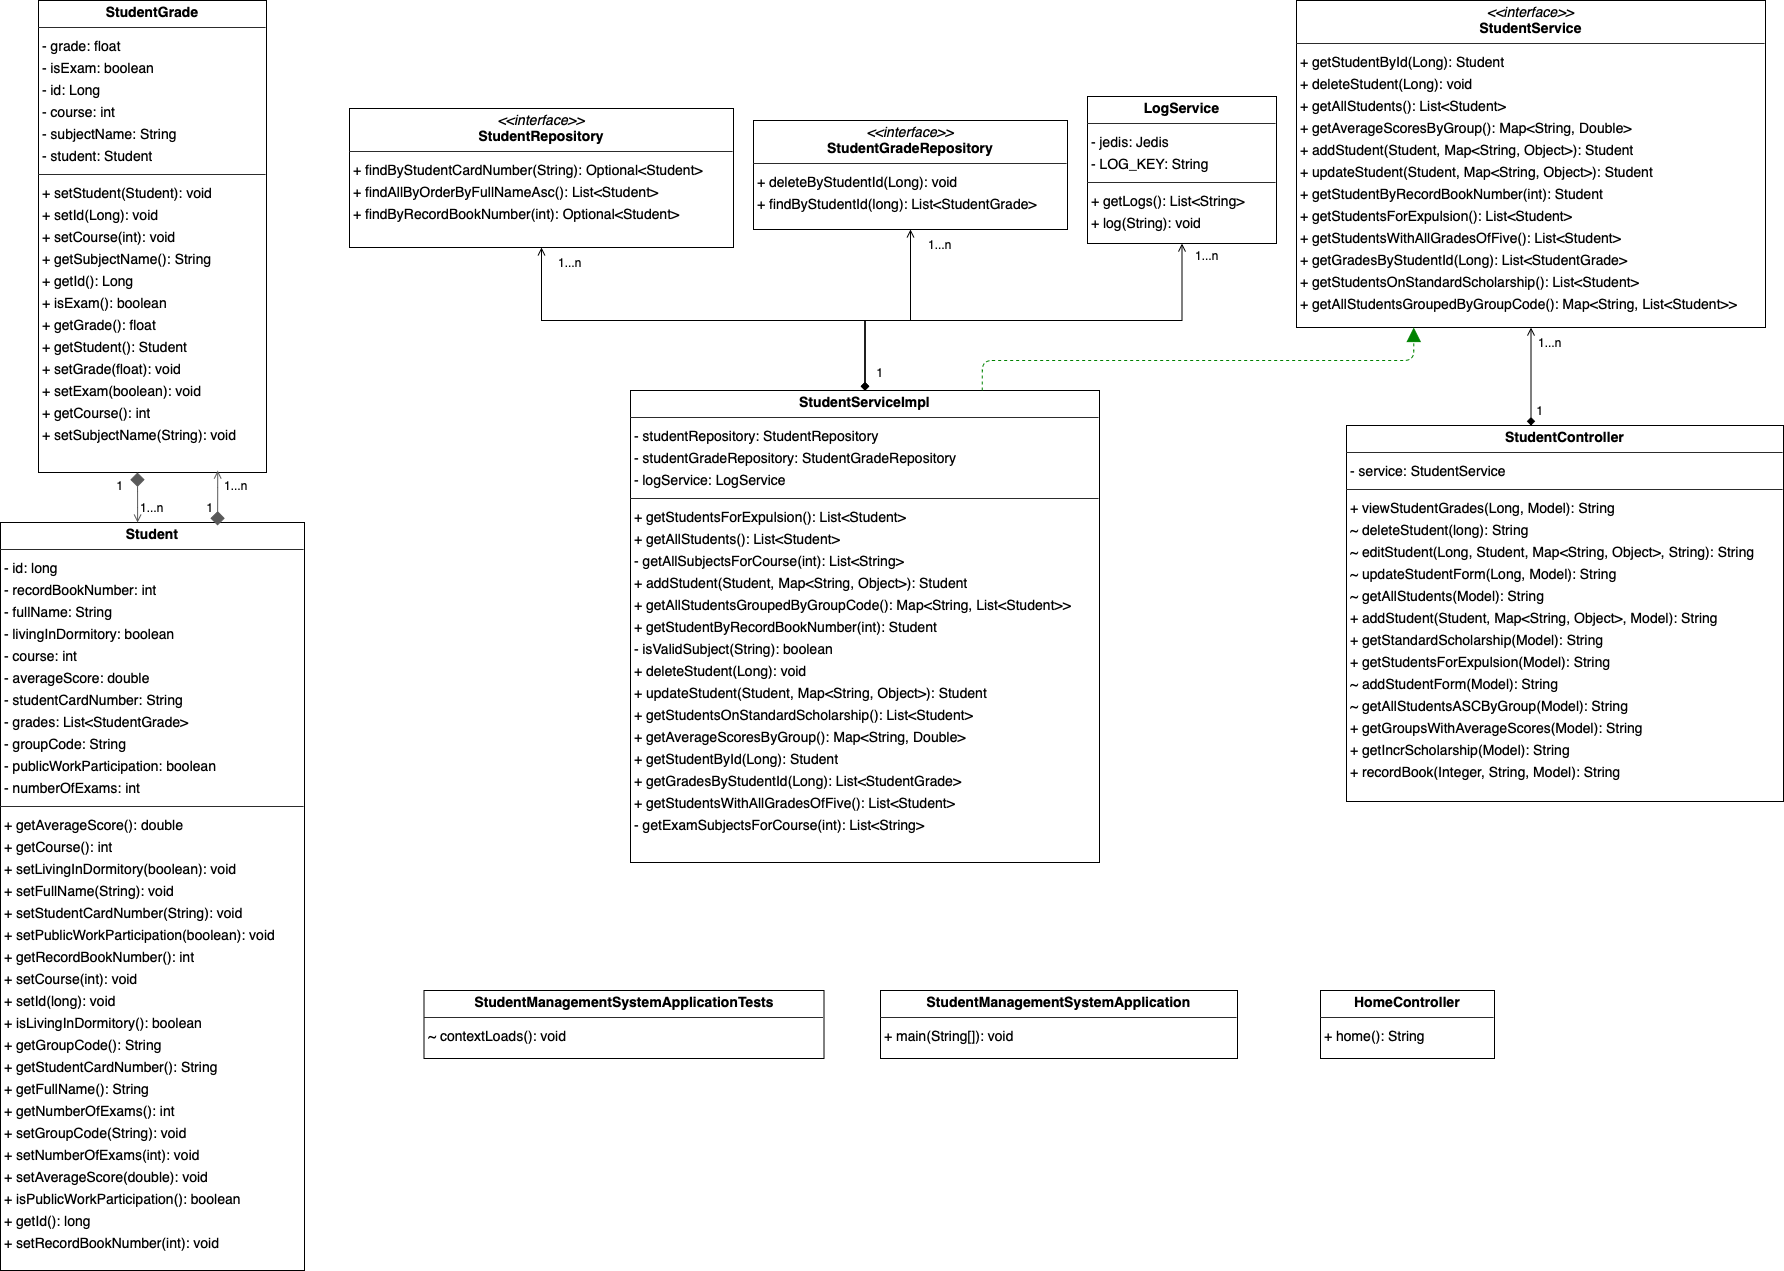
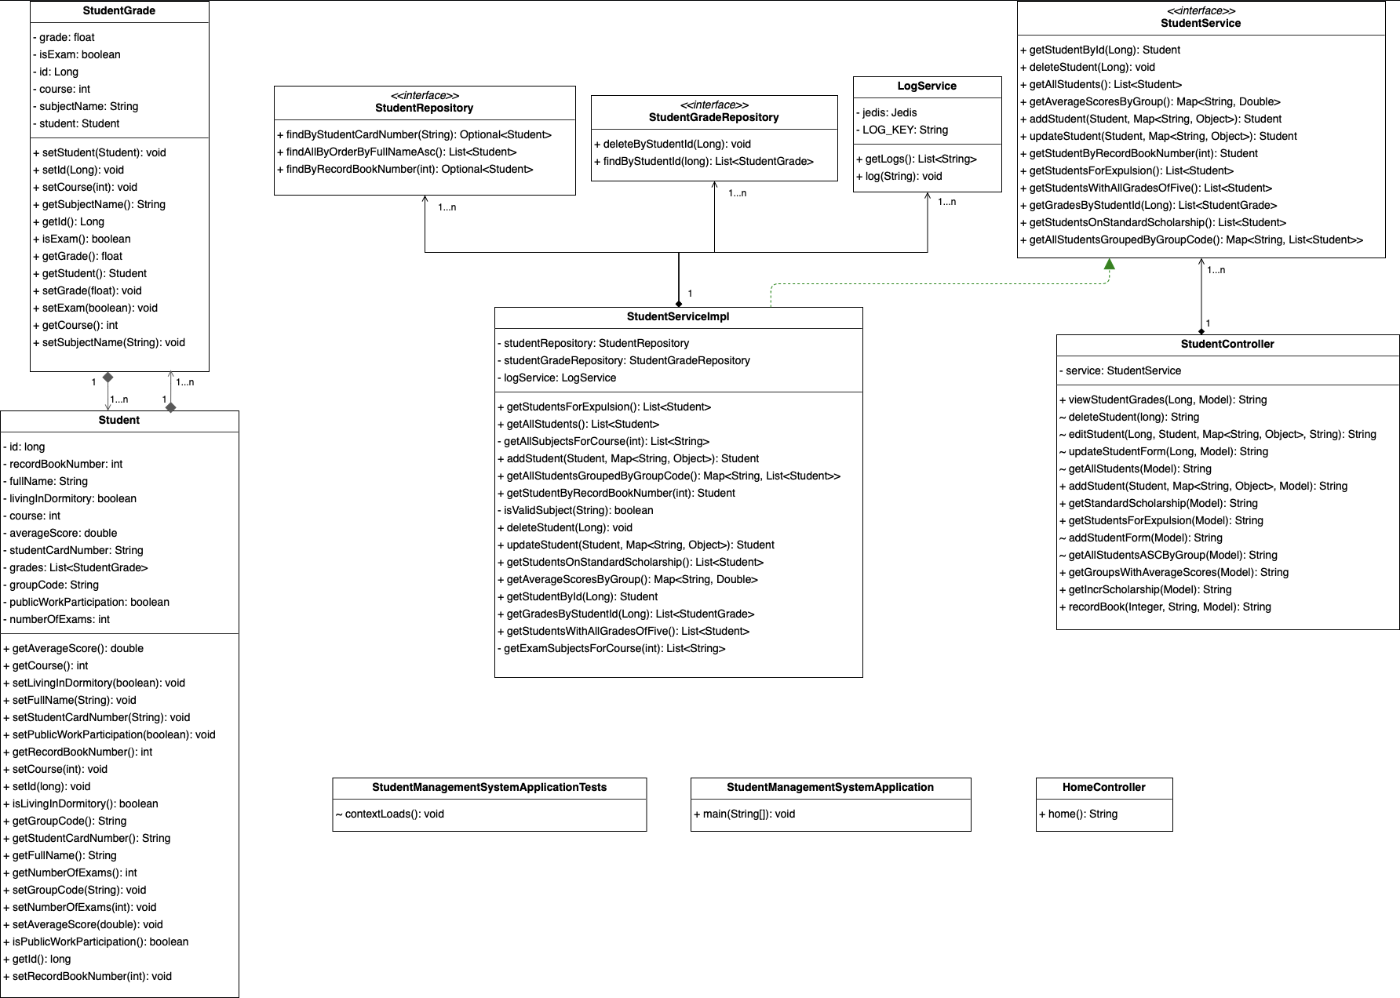
Updated README.md

diff --git a/README.md b/README.md
@@ -5,7 +5,7 @@ Student Management System is a web-based application that can be used to manage 
 <img src="./img/home.png" width="700">
 
 ## UML Class Diagram 
-<img style="background-color: white" src="./img/UML.png" width="700">
+<img src="./img/UML.png" width="700">
 
 ## Built With
 <ul>
